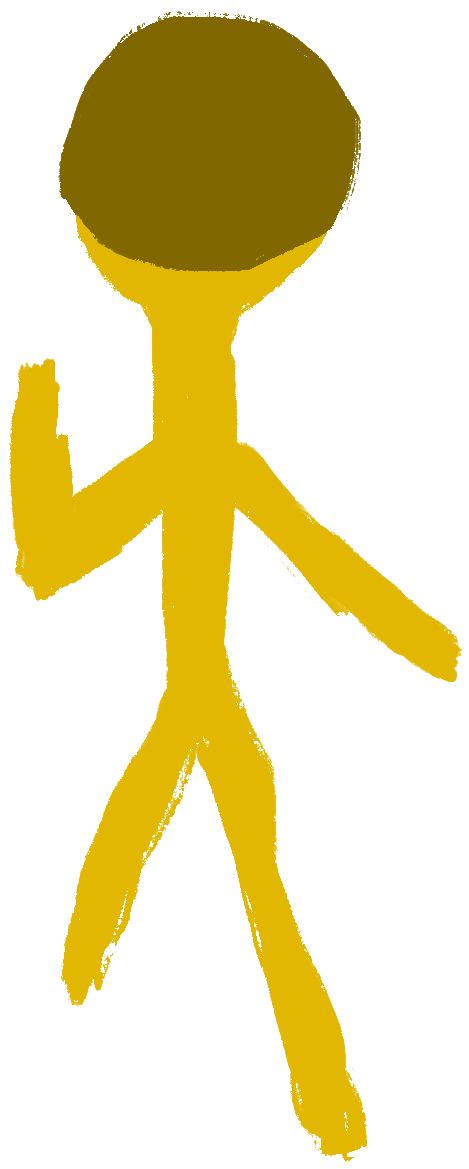
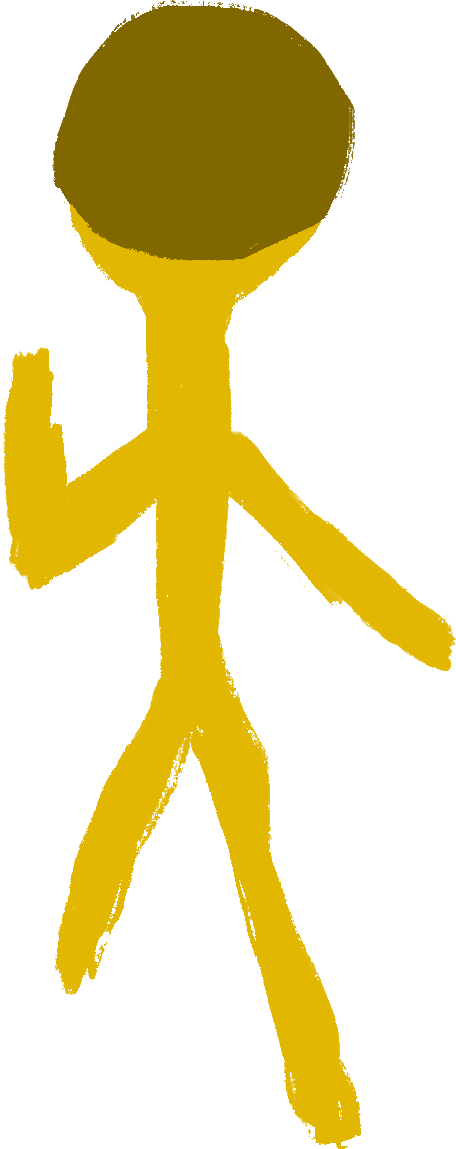
Added unfinished version of mob

diff --git a/js/character.js b/js/character.js
@@ -49,8 +49,8 @@ export function importImages() {
     imgArray[7] = [gdl1, gdl2];
 }
 
-export class Individual {
-    constructor(type) {
+class MainCharacter {
+    constructor() {
         this.n = 0;
         this.dir = 0;
         this.up = 0;
@@ -59,14 +59,9 @@ export class Individual {
         this.right = 0;
         this.speed = spd;
         this.counter = 0;
-        if (type == 'mc') {
-            this.x = 13.5;
-            this.y = 10.5;
-            this.base_image = imgArray[0][0];
-        } else {
-            this.x = 0;
-            this.y = 0;
-        }
+        this.x = 13.5;
+        this.y = 10.5;
+        this.base_image = imgArray[0][0];
     }
 
 
@@ -75,6 +70,7 @@ export class Individual {
         let y = topLeft[1] + this.y * block;
 
         ctx.drawImage(this.base_image, x - 0.38 * block, y - 0.7 * block, 0.7 * block, 1.3 * block);
+        // ctx.drawImage(this.base_image, x - 0.1 * block, y - 0.1 * block, 0.2 * block, 0.2 * block);
 
         // ctx.beginPath();
         // ctx.moveTo(x - 0.4 * block, y + 0.5 * block);
@@ -83,6 +79,11 @@ export class Individual {
         // ctx.closePath();
         // ctx.strokeStyle = 'red';
         // ctx.stroke();
+    }
+
+    pushback(px, py) {
+        this.x += px;
+        this.y += py;
     }
 
     updatePosition() {
@@ -112,6 +113,8 @@ export class Individual {
 
         if ((this.down + this.up + this.left + this.right) > 0) {
             this.counter++;
+        } if (this.counter > 50000) {
+            this.counter = 0;
         }
 
         let picCounter = (Math.floor(this.counter / 7) % 2);
@@ -168,22 +171,22 @@ export class Individual {
 }
 
 export function mc() {
-    mainPlayer = new Individual('mc');
+    mainPlayer = new MainCharacter();
     window.addEventListener('keydown', detectDirction);
     window.addEventListener('keyup', stopMovement);
 }
 
 function detectDirction(e) {
-    if (e.key == 'w') {
+    if (e.key == 'w' || e.key == 'W') {
         mainPlayer.up = 1;
     }
-    if (e.key == 'a') {
+    if (e.key == 'a' || e.key == 'A') {
         mainPlayer.left = 1;
     }
-    if (e.key == 'd') {
+    if (e.key == 'd' || e.key == 'D') {
         mainPlayer.right = 1;
     }
-    if (e.key == 's') {
+    if (e.key == 's' || e.key == 'S') {
         mainPlayer.down = 1;
     }
     if ((mainPlayer.up + mainPlayer.down + mainPlayer.left + mainPlayer.right) > 1) {
@@ -192,16 +195,16 @@ function detectDirction(e) {
 }
 
 function stopMovement(e) {
-    if (e.key == 'w') {
+    if (e.key == 'w' || e.key == 'W') {
         mainPlayer.up = 0;
     }
-    if (e.key == 'a') {
+    if (e.key == 'a' || e.key == 'A') {
         mainPlayer.left = 0;
     }
-    if (e.key == 'd') {
+    if (e.key == 'd' || e.key == 'D') {
         mainPlayer.right = 0;
     }
-    if (e.key == 's') {
+    if (e.key == 's' || e.key == 'S') {
         mainPlayer.down = 0;
     }
     if ((mainPlayer.up + mainPlayer.down + mainPlayer.left + mainPlayer.right) <= 1) {

diff --git a/js/mob.js b/js/mob.js
@@ -1,0 +1,57 @@
+import { width, height, g_width, g_height, topLeft, block, x_tiles, y_tiles, ctx } from "./index.js"
+import { mainPlayer } from "./character.js"
+export var mob = [];
+
+
+class Mob {
+    constructor() {
+        this.x = 7.5;
+        this.y = 6.5;
+        this.img = new Image();
+        this.img.src = '../img/mob.png';
+    }
+
+    characterDistance() {
+        return Math.sqrt((this.x - mainPlayer.x) ** 2 + (this.y - mainPlayer.y) ** 2);
+    }
+
+    updatePosition() {
+        if (this.characterDistance() >= 1) {
+            return;
+        } else {
+            let pushDistance = (1 - this.characterDistance()) * 0.2;
+            let angle = Math.atan((this.y - mainPlayer.y) / (this.x - mainPlayer.x));
+            let y_move = Math.sin(angle) * pushDistance;
+            let x_move = Math.cos(angle) * pushDistance;
+            if (this.x < mainPlayer.x) {
+                mainPlayer.pushback(x_move, y_move);
+                this.x -= x_move;
+                this.y -= y_move;
+            } else {
+                mainPlayer.pushback(-x_move, -y_move);
+                this.x += x_move;
+                this.y += y_move;
+            }
+        }
+    }
+
+    draw() {
+        let x = topLeft[0] + this.x * block;
+        let y = topLeft[1] + this.y * block;
+
+        ctx.drawImage(this.img, x - 0.5 * block, y - 0.65 * block, block, 1.15 * block);
+    }
+}
+
+export function createMobs() {
+    mob.push(new Mob());
+}
+
+export function drawMobs() {
+    for (let i = 0; i < mob.length; i++) {
+        mob[i].updatePosition();
+        mob[i].draw();
+    }
+}
+
+

diff --git a/js/animator.js b/js/animator.js
@@ -1,6 +1,7 @@
 import { drawGameBoundry, drawSideWalls, drawLowerWalls, drawUpperWalls, drawTiles, addLights } from "./map.js"
 import { ctx, width, height } from "./index.js"
 import { mainPlayer } from "./character.js"
+import { drawMobs } from "./mob.js"
 
 
 export function drawFrame() {
@@ -8,6 +9,7 @@ export function drawFrame() {
     drawUpperWalls();
     drawLowerWalls();
     drawTiles();
+    drawMobs();
     mainPlayer.updatePosition();
     mainPlayer.draw();
     drawSideWalls();

diff --git a/js/index.js b/js/index.js
@@ -1,5 +1,6 @@
 import { animate } from "./animator.js"
 import { mc, importImages } from "./character.js"
+import { createMobs } from "./mob.js"
 
 export var width, height, g_width, g_height, topLeft = [0, 0], block, x_tiles = 28, y_tiles = 20, canvas, ctx;
 var res = 2;
@@ -15,6 +16,7 @@ var res = 2;
 importImages();
 canvasSizing();
 mc();
+createMobs();
 addEventListners();
 animate();
 

diff --git a/js/map.js b/js/map.js
@@ -31,7 +31,7 @@ export function addLights() {
 
 
     var grd = ctx.createRadialGradient(width / 2, height / 2, 5 * block, width / 2, height / 2, 15 * block);
-    grd.addColorStop(1, 'rgba(255, 0, 0, 0.2)');
+    grd.addColorStop(1, 'rgba(255, 0, 0, 0.15)');
     grd.addColorStop(0, "rgba(0, 0, 255, 0");
 
     ctx.fillStyle = grd;
